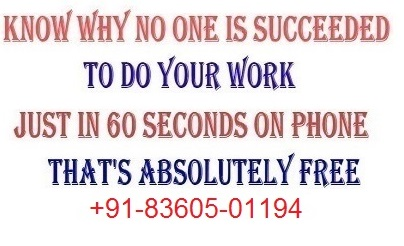
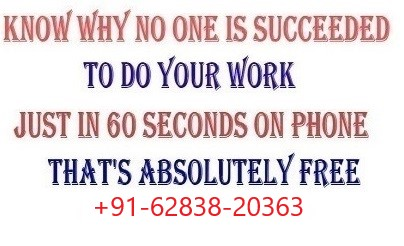
contact number
contact number was chenged to all files and chenged into a home page image also

Changed region(s): [[0.2079, 0.7967, 0.7723, 0.9106]]

diff --git a/index.html b/index.html
@@ -1295,7 +1295,7 @@ Agree your girlfriend for marriage with Kala Jadoo Mantra can’t be done withou
 <div id="bottom-bar" class="cf" role="contentinfo">
 </div>
 </div>
-<a href="tel:+918360501194" id="callnowbutton"><span>Call Now Button</span></a> <script>
+<a href="tel:+916283820363" id="callnowbutton"><span>Call Now Button</span></a> <script>
 				(function($) {
 					'use strict';
 					$(document).ready(function() {
@@ -1303,7 +1303,7 @@ Agree your girlfriend for marriage with Kala Jadoo Mantra can’t be done withou
 						if (mobileDetect) {
 							$('.cresta-whatsapp-chat-container').css('display','none');
 							$('.cresta-whatsapp-chat-box').on('click', function(){
-								window.location = 'whatsapp://send?text=&phone=+918360501194&abid=+918360501194';
+								window.location = 'whatsapp://send?text=&phone=+916283820363&abid=+916283820363';
 							});
 						} else {
 							$('.cresta-whatsapp-chat-box, .cresta-whatsapp-chat-overlay').on('click', function(){
@@ -1315,7 +1315,7 @@ Agree your girlfriend for marriage with Kala Jadoo Mantra can’t be done withou
 								}
 							});
 							$('.cresta-whatsapp-chat-container .cresta-whatsapp-send').click(function() {
-								var baseUrl = 'https://web.whatsapp.com/send?phone=+918360501194&amp;text=';
+								var baseUrl = 'https://web.whatsapp.com/send?phone=+916283820363&amp;text=';
 								var textEncode = encodeURIComponent($('.cresta-whatsapp-chat-container .cresta-whatsapp-textarea').val());
 								window.open(baseUrl + textEncode, '_blank');
 							});

diff --git a/best-astrologer-in-lucknow/index.html b/best-astrologer-in-lucknow/index.html
@@ -321,7 +321,7 @@ body.custom-background { background-image: url("../wp-content/themes/frontier/im
 <div id="bottom-bar" class="cf" role="contentinfo">
 </div>
 </div>
-<a href="tel:+918360501194" id="callnowbutton"><span>Call Now Button</span></a> <script>
+<a href="tel:+916283820363" id="callnowbutton"><span>Call Now Button</span></a> <script>
 				(function($) {
 					'use strict';
 					$(document).ready(function() {
@@ -329,7 +329,7 @@ body.custom-background { background-image: url("../wp-content/themes/frontier/im
 						if (mobileDetect) {
 							$('.cresta-whatsapp-chat-container').css('display','none');
 							$('.cresta-whatsapp-chat-box').on('click', function(){
-								window.location = 'whatsapp://send?text=&phone=+918360501194&abid=+918360501194';
+								window.location = 'whatsapp://send?text=&phone=+916283820363&abid=+916283820363';
 							});
 						} else {
 							$('.cresta-whatsapp-chat-box, .cresta-whatsapp-chat-overlay').on('click', function(){
@@ -341,7 +341,7 @@ body.custom-background { background-image: url("../wp-content/themes/frontier/im
 								}
 							});
 							$('.cresta-whatsapp-chat-container .cresta-whatsapp-send').click(function() {
-								var baseUrl = 'https://web.whatsapp.com/send?phone=+918360501194&amp;text=';
+								var baseUrl = 'https://web.whatsapp.com/send?phone=+916283820363&amp;text=';
 								var textEncode = encodeURIComponent($('.cresta-whatsapp-chat-container .cresta-whatsapp-textarea').val());
 								window.open(baseUrl + textEncode, '_blank');
 							});

diff --git a/best-tantrik-in-india/index.html b/best-tantrik-in-india/index.html
@@ -340,7 +340,7 @@ body.custom-background { background-image: url("../wp-content/themes/frontier/im
 <div id="bottom-bar" class="cf" role="contentinfo">
 </div>
 </div>
-<a href="tel:+918360501194" id="callnowbutton"><span>Call Now Button</span></a> <script>
+<a href="tel:+916283820363" id="callnowbutton"><span>Call Now Button</span></a> <script>
 				(function($) {
 					'use strict';
 					$(document).ready(function() {
@@ -348,7 +348,7 @@ body.custom-background { background-image: url("../wp-content/themes/frontier/im
 						if (mobileDetect) {
 							$('.cresta-whatsapp-chat-container').css('display','none');
 							$('.cresta-whatsapp-chat-box').on('click', function(){
-								window.location = 'whatsapp://send?text=&phone=+918360501194&abid=+918360501194';
+								window.location = 'whatsapp://send?text=&phone=+916283820363&abid=+916283820363';
 							});
 						} else {
 							$('.cresta-whatsapp-chat-box, .cresta-whatsapp-chat-overlay').on('click', function(){
@@ -360,7 +360,7 @@ body.custom-background { background-image: url("../wp-content/themes/frontier/im
 								}
 							});
 							$('.cresta-whatsapp-chat-container .cresta-whatsapp-send').click(function() {
-								var baseUrl = 'https://web.whatsapp.com/send?phone=+918360501194&amp;text=';
+								var baseUrl = 'https://web.whatsapp.com/send?phone=+916283820363&amp;text=';
 								var textEncode = encodeURIComponent($('.cresta-whatsapp-chat-container .cresta-whatsapp-textarea').val());
 								window.open(baseUrl + textEncode, '_blank');
 							});

diff --git a/best-tantrik-in-kolkata/index.html b/best-tantrik-in-kolkata/index.html
@@ -305,7 +305,7 @@ body.custom-background { background-image: url("../wp-content/themes/frontier/im
 <div id="bottom-bar" class="cf" role="contentinfo">
 </div>
 </div>
-<a href="tel:+918360501194" id="callnowbutton"><span>Call Now Button</span></a> <script>
+<a href="tel:+916283820363" id="callnowbutton"><span>Call Now Button</span></a> <script>
 				(function($) {
 					'use strict';
 					$(document).ready(function() {
@@ -313,7 +313,7 @@ body.custom-background { background-image: url("../wp-content/themes/frontier/im
 						if (mobileDetect) {
 							$('.cresta-whatsapp-chat-container').css('display','none');
 							$('.cresta-whatsapp-chat-box').on('click', function(){
-								window.location = 'whatsapp://send?text=&phone=+918360501194&abid=+918360501194';
+								window.location = 'whatsapp://send?text=&phone=+916283820363&abid=+916283820363';
 							});
 						} else {
 							$('.cresta-whatsapp-chat-box, .cresta-whatsapp-chat-overlay').on('click', function(){
@@ -325,7 +325,7 @@ body.custom-background { background-image: url("../wp-content/themes/frontier/im
 								}
 							});
 							$('.cresta-whatsapp-chat-container .cresta-whatsapp-send').click(function() {
-								var baseUrl = 'https://web.whatsapp.com/send?phone=+918360501194&amp;text=';
+								var baseUrl = 'https://web.whatsapp.com/send?phone=+916283820363&amp;text=';
 								var textEncode = encodeURIComponent($('.cresta-whatsapp-chat-container .cresta-whatsapp-textarea').val());
 								window.open(baseUrl + textEncode, '_blank');
 							});

diff --git a/black-magic-specialist-in-mumbai/index.html b/black-magic-specialist-in-mumbai/index.html
@@ -402,7 +402,7 @@ body.custom-background { background-image: url("../wp-content/themes/frontier/im
 <div id="bottom-bar" class="cf" role="contentinfo">
 </div>
 </div>
-<a href="tel:+918360501194" id="callnowbutton"><span>Call Now Button</span></a> <script>
+<a href="tel:+916283820363" id="callnowbutton"><span>Call Now Button</span></a> <script>
 				(function($) {
 					'use strict';
 					$(document).ready(function() {
@@ -410,7 +410,7 @@ body.custom-background { background-image: url("../wp-content/themes/frontier/im
 						if (mobileDetect) {
 							$('.cresta-whatsapp-chat-container').css('display','none');
 							$('.cresta-whatsapp-chat-box').on('click', function(){
-								window.location = 'whatsapp://send?text=&phone=+918360501194&abid=+918360501194';
+								window.location = 'whatsapp://send?text=&phone=+916283820363&abid=+916283820363';
 							});
 						} else {
 							$('.cresta-whatsapp-chat-box, .cresta-whatsapp-chat-overlay').on('click', function(){
@@ -422,7 +422,7 @@ body.custom-background { background-image: url("../wp-content/themes/frontier/im
 								}
 							});
 							$('.cresta-whatsapp-chat-container .cresta-whatsapp-send').click(function() {
-								var baseUrl = 'https://web.whatsapp.com/send?phone=+918360501194&amp;text=';
+								var baseUrl = 'https://web.whatsapp.com/send?phone=+916283820363&amp;text=';
 								var textEncode = encodeURIComponent($('.cresta-whatsapp-chat-container .cresta-whatsapp-textarea').val());
 								window.open(baseUrl + textEncode, '_blank');
 							});

diff --git a/break-relationship/index.html b/break-relationship/index.html
@@ -366,7 +366,7 @@ body.custom-background { background-image: url("../wp-content/themes/frontier/im
 <div id="bottom-bar" class="cf" role="contentinfo">
 </div>
 </div>
-<a href="tel:+918360501194" id="callnowbutton"><span>Call Now Button</span></a> <script>
+<a href="tel:+916283820363" id="callnowbutton"><span>Call Now Button</span></a> <script>
 				(function($) {
 					'use strict';
 					$(document).ready(function() {
@@ -374,7 +374,7 @@ body.custom-background { background-image: url("../wp-content/themes/frontier/im
 						if (mobileDetect) {
 							$('.cresta-whatsapp-chat-container').css('display','none');
 							$('.cresta-whatsapp-chat-box').on('click', function(){
-								window.location = 'whatsapp://send?text=&phone=+918360501194&abid=+918360501194';
+								window.location = 'whatsapp://send?text=&phone=+916283820363&abid=+916283820363';
 							});
 						} else {
 							$('.cresta-whatsapp-chat-box, .cresta-whatsapp-chat-overlay').on('click', function(){
@@ -386,7 +386,7 @@ body.custom-background { background-image: url("../wp-content/themes/frontier/im
 								}
 							});
 							$('.cresta-whatsapp-chat-container .cresta-whatsapp-send').click(function() {
-								var baseUrl = 'https://web.whatsapp.com/send?phone=+918360501194&amp;text=';
+								var baseUrl = 'https://web.whatsapp.com/send?phone=+916283820363&amp;text=';
 								var textEncode = encodeURIComponent($('.cresta-whatsapp-chat-container .cresta-whatsapp-textarea').val());
 								window.open(baseUrl + textEncode, '_blank');
 							});

diff --git a/dushman-ko-khatam-karne-ka-upay/index.html b/dushman-ko-khatam-karne-ka-upay/index.html
@@ -394,7 +394,7 @@ Ask me for FREE Solution. </span></div><div class="snippet-clear"></div><div cla
 <div id="bottom-bar" class="cf" role="contentinfo">
 </div>
 </div>
-<a href="tel:+918360501194" id="callnowbutton"><span>Call Now Button</span></a> <script>
+<a href="tel:+916283820363" id="callnowbutton"><span>Call Now Button</span></a> <script>
 				(function($) {
 					'use strict';
 					$(document).ready(function() {
@@ -402,7 +402,7 @@ Ask me for FREE Solution. </span></div><div class="snippet-clear"></div><div cla
 						if (mobileDetect) {
 							$('.cresta-whatsapp-chat-container').css('display','none');
 							$('.cresta-whatsapp-chat-box').on('click', function(){
-								window.location = 'whatsapp://send?text=&phone=+918360501194&abid=+918360501194';
+								window.location = 'whatsapp://send?text=&phone=+916283820363&abid=+916283820363';
 							});
 						} else {
 							$('.cresta-whatsapp-chat-box, .cresta-whatsapp-chat-overlay').on('click', function(){
@@ -414,7 +414,7 @@ Ask me for FREE Solution. </span></div><div class="snippet-clear"></div><div cla
 								}
 							});
 							$('.cresta-whatsapp-chat-container .cresta-whatsapp-send').click(function() {
-								var baseUrl = 'https://web.whatsapp.com/send?phone=+918360501194&amp;text=';
+								var baseUrl = 'https://web.whatsapp.com/send?phone=+916283820363&amp;text=';
 								var textEncode = encodeURIComponent($('.cresta-whatsapp-chat-container .cresta-whatsapp-textarea').val());
 								window.open(baseUrl + textEncode, '_blank');
 							});

diff --git a/kala-jadoo-karne-wala/index.html b/kala-jadoo-karne-wala/index.html
@@ -387,7 +387,7 @@ body.custom-background { background-image: url("../wp-content/themes/frontier/im
 <div id="bottom-bar" class="cf" role="contentinfo">
 </div>
 </div>
-<a href="tel:+918360501194" id="callnowbutton"><span>Call Now Button</span></a> <script>
+<a href="tel:+916283820363" id="callnowbutton"><span>Call Now Button</span></a> <script>
 				(function($) {
 					'use strict';
 					$(document).ready(function() {
@@ -395,7 +395,7 @@ body.custom-background { background-image: url("../wp-content/themes/frontier/im
 						if (mobileDetect) {
 							$('.cresta-whatsapp-chat-container').css('display','none');
 							$('.cresta-whatsapp-chat-box').on('click', function(){
-								window.location = 'whatsapp://send?text=&phone=+918360501194&abid=+918360501194';
+								window.location = 'whatsapp://send?text=&phone=+916283820363&abid=+916283820363';
 							});
 						} else {
 							$('.cresta-whatsapp-chat-box, .cresta-whatsapp-chat-overlay').on('click', function(){
@@ -407,7 +407,7 @@ body.custom-background { background-image: url("../wp-content/themes/frontier/im
 								}
 							});
 							$('.cresta-whatsapp-chat-container .cresta-whatsapp-send').click(function() {
-								var baseUrl = 'https://web.whatsapp.com/send?phone=+918360501194&amp;text=';
+								var baseUrl = 'https://web.whatsapp.com/send?phone=+916283820363&amp;text=';
 								var textEncode = encodeURIComponent($('.cresta-whatsapp-chat-container .cresta-whatsapp-textarea').val());
 								window.open(baseUrl + textEncode, '_blank');
 							});

diff --git a/kala-jadu-for-love-back/index.html b/kala-jadu-for-love-back/index.html
@@ -435,7 +435,7 @@ Agree your girlfriend for marriage with Kala Jadoo Mantra can’t be done withou
 <div id="bottom-bar" class="cf" role="contentinfo">
 </div>
 </div>
-<a href="tel:+918360501194" id="callnowbutton"><span>Call Now Button</span></a> <script>
+<a href="tel:+916283820363" id="callnowbutton"><span>Call Now Button</span></a> <script>
 				(function($) {
 					'use strict';
 					$(document).ready(function() {
@@ -443,7 +443,7 @@ Agree your girlfriend for marriage with Kala Jadoo Mantra can’t be done withou
 						if (mobileDetect) {
 							$('.cresta-whatsapp-chat-container').css('display','none');
 							$('.cresta-whatsapp-chat-box').on('click', function(){
-								window.location = 'whatsapp://send?text=&phone=+918360501194&abid=+918360501194';
+								window.location = 'whatsapp://send?text=&phone=+916283820363&abid=+916283820363';
 							});
 						} else {
 							$('.cresta-whatsapp-chat-box, .cresta-whatsapp-chat-overlay').on('click', function(){
@@ -455,7 +455,7 @@ Agree your girlfriend for marriage with Kala Jadoo Mantra can’t be done withou
 								}
 							});
 							$('.cresta-whatsapp-chat-container .cresta-whatsapp-send').click(function() {
-								var baseUrl = 'https://web.whatsapp.com/send?phone=+918360501194&amp;text=';
+								var baseUrl = 'https://web.whatsapp.com/send?phone=+916283820363&amp;text=';
 								var textEncode = encodeURIComponent($('.cresta-whatsapp-chat-container .cresta-whatsapp-textarea').val());
 								window.open(baseUrl + textEncode, '_blank');
 							});

diff --git a/kala-jadu-specialist-in-delhi/index.html b/kala-jadu-specialist-in-delhi/index.html
@@ -362,7 +362,7 @@ body.custom-background { background-image: url("../wp-content/themes/frontier/im
 <div id="bottom-bar" class="cf" role="contentinfo">
 </div>
 </div>
-<a href="tel:+918360501194" id="callnowbutton"><span>Call Now Button</span></a> <script>
+<a href="tel:+916283820363" id="callnowbutton"><span>Call Now Button</span></a> <script>
 				(function($) {
 					'use strict';
 					$(document).ready(function() {
@@ -370,7 +370,7 @@ body.custom-background { background-image: url("../wp-content/themes/frontier/im
 						if (mobileDetect) {
 							$('.cresta-whatsapp-chat-container').css('display','none');
 							$('.cresta-whatsapp-chat-box').on('click', function(){
-								window.location = 'whatsapp://send?text=&phone=+918360501194&abid=+918360501194';
+								window.location = 'whatsapp://send?text=&phone=+916283820363&abid=+916283820363';
 							});
 						} else {
 							$('.cresta-whatsapp-chat-box, .cresta-whatsapp-chat-overlay').on('click', function(){
@@ -382,7 +382,7 @@ body.custom-background { background-image: url("../wp-content/themes/frontier/im
 								}
 							});
 							$('.cresta-whatsapp-chat-container .cresta-whatsapp-send').click(function() {
-								var baseUrl = 'https://web.whatsapp.com/send?phone=+918360501194&amp;text=';
+								var baseUrl = 'https://web.whatsapp.com/send?phone=+916283820363&amp;text=';
 								var textEncode = encodeURIComponent($('.cresta-whatsapp-chat-container .cresta-whatsapp-textarea').val());
 								window.open(baseUrl + textEncode, '_blank');
 							});

diff --git a/kala-jadu-specialist-molvi-ji/index.html b/kala-jadu-specialist-molvi-ji/index.html
@@ -394,7 +394,7 @@ Yes, Kala jadu can bring your girlfriend back within a few hours only.</span></l
 <div id="bottom-bar" class="cf" role="contentinfo">
 </div>
 </div>
-<a href="tel:+918360501194" id="callnowbutton"><span>Call Now Button</span></a> <script>
+<a href="tel:+916283820363" id="callnowbutton"><span>Call Now Button</span></a> <script>
 				(function($) {
 					'use strict';
 					$(document).ready(function() {
@@ -402,7 +402,7 @@ Yes, Kala jadu can bring your girlfriend back within a few hours only.</span></l
 						if (mobileDetect) {
 							$('.cresta-whatsapp-chat-container').css('display','none');
 							$('.cresta-whatsapp-chat-box').on('click', function(){
-								window.location = 'whatsapp://send?text=&phone=+918360501194&abid=+918360501194';
+								window.location = 'whatsapp://send?text=&phone=+916283820363&abid=+916283820363';
 							});
 						} else {
 							$('.cresta-whatsapp-chat-box, .cresta-whatsapp-chat-overlay').on('click', function(){
@@ -414,7 +414,7 @@ Yes, Kala jadu can bring your girlfriend back within a few hours only.</span></l
 								}
 							});
 							$('.cresta-whatsapp-chat-container .cresta-whatsapp-send').click(function() {
-								var baseUrl = 'https://web.whatsapp.com/send?phone=+918360501194&amp;text=';
+								var baseUrl = 'https://web.whatsapp.com/send?phone=+916283820363&amp;text=';
 								var textEncode = encodeURIComponent($('.cresta-whatsapp-chat-container .cresta-whatsapp-textarea').val());
 								window.open(baseUrl + textEncode, '_blank');
 							});

diff --git a/kala-jadu-vashikaran/index.html b/kala-jadu-vashikaran/index.html
@@ -417,7 +417,7 @@ I am going to share the most <strong>powerful vashikaran mantra Bengali</strong>
 <div id="bottom-bar" class="cf" role="contentinfo">
 </div>
 </div>
-<a href="tel:+918360501194" id="callnowbutton"><span>Call Now Button</span></a> <script>
+<a href="tel:+916283820363" id="callnowbutton"><span>Call Now Button</span></a> <script>
 				(function($) {
 					'use strict';
 					$(document).ready(function() {
@@ -425,7 +425,7 @@ I am going to share the most <strong>powerful vashikaran mantra Bengali</strong>
 						if (mobileDetect) {
 							$('.cresta-whatsapp-chat-container').css('display','none');
 							$('.cresta-whatsapp-chat-box').on('click', function(){
-								window.location = 'whatsapp://send?text=&phone=+918360501194&abid=+918360501194';
+								window.location = 'whatsapp://send?text=&phone=+916283820363&abid=+916283820363';
 							});
 						} else {
 							$('.cresta-whatsapp-chat-box, .cresta-whatsapp-chat-overlay').on('click', function(){
@@ -437,7 +437,7 @@ I am going to share the most <strong>powerful vashikaran mantra Bengali</strong>
 								}
 							});
 							$('.cresta-whatsapp-chat-container .cresta-whatsapp-send').click(function() {
-								var baseUrl = 'https://web.whatsapp.com/send?phone=+918360501194&amp;text=';
+								var baseUrl = 'https://web.whatsapp.com/send?phone=+916283820363&amp;text=';
 								var textEncode = encodeURIComponent($('.cresta-whatsapp-chat-container .cresta-whatsapp-textarea').val());
 								window.open(baseUrl + textEncode, '_blank');
 							});
